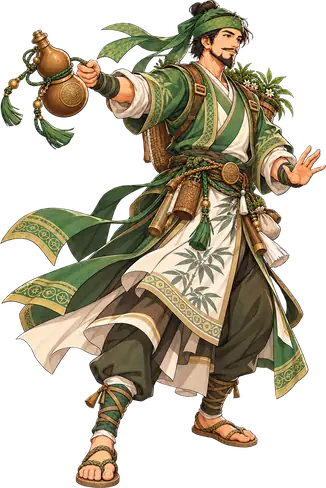
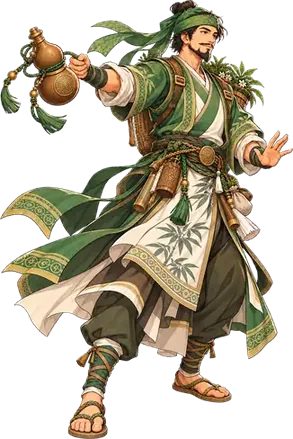
feat: thêm tranh đánh thường và phong thái cho Lưu Cơ, Trịnh Tú, Nguyễn Siêu, Trần Cương
- Lưu Cơ, Trịnh Tú: thêm pose-attack và style.webp; nén lại tư thế cũ ×0.9 (texScale 0.3) để giữ ngân sách 350 KB.
- Nguyễn Siêu: thêm tranh ra chiêu (giơ khiên, giáo chúc xuống).
- Trần Cương: thêm style.webp cho hồ sơ.

Claude-Session: https://claude.ai/code/session_013ZWRLjVBHAqXYTQSkSZwJr

diff --git a/src/app/game/stage/rigs.ts b/src/app/game/stage/rigs.ts
@@ -574,10 +574,12 @@ const LUU_CO: WarriorRig = {
   blade: [{ x: 276, y: 558 }, { x: 140, y: 335 }],
   fxColor: 0xf0cf8a,
   poses: {
-    cast: { name: "pose-cast", texScale: 1 / 3, origin: { x: 10, y: 30 }, anchor: { x: 620, y: 1513 }, scale: 1, burst: { x: 150, y: 170 } },
-    ultimate: { name: "pose-ultimate", texScale: 1 / 3, origin: { x: 8, y: 13 }, anchor: { x: 565, y: 1510 }, scale: 1, burst: { x: 947, y: 80 } },
+    // Đánh thường: tranh Shan gửi 03/11, quét quạt lông ngang người (cỡ so theo đầu).
+    attack: { name: "pose-attack", texScale: 0.3, origin: { x: 15, y: 87 }, anchor: { x: 565, y: 1380 }, scale: 1.05, burst: { x: 880, y: 500 } },
+    cast: { name: "pose-cast", texScale: 0.3, origin: { x: 10, y: 30 }, anchor: { x: 620, y: 1513 }, scale: 1, burst: { x: 150, y: 170 } },
+    ultimate: { name: "pose-ultimate", texScale: 0.3, origin: { x: 8, y: 13 }, anchor: { x: 565, y: 1510 }, scale: 1, burst: { x: 947, y: 80 } },
   },
-  down: { name: "pose-down", texScale: 1 / 3, origin: { x: 40, y: 37 }, anchor: { x: 850, y: 1007 }, scale: 1 },
+  down: { name: "pose-down", texScale: 0.3, origin: { x: 40, y: 37 }, anchor: { x: 850, y: 1007 }, scale: 1 },
 };
 
 /** Trịnh Tú, y sư hệ Mộc. Khớp trong ảnh nguồn 1024×1536, hồ lô có điểm cầm riêng. */
@@ -613,10 +615,12 @@ const TRINH_TU: WarriorRig = {
   blade: [{ x: 167, y: 414 }, { x: 157, y: 285 }],
   fxColor: 0x9bd777,
   poses: {
-    cast: { name: "pose-cast", texScale: 1 / 3, origin: { x: 43, y: 45 }, anchor: { x: 690, y: 1508 }, scale: 1, burst: { x: 170, y: 165 } },
-    ultimate: { name: "pose-ultimate", texScale: 1 / 3, origin: { x: 12, y: 57 }, anchor: { x: 680, y: 1508 }, scale: 1, burst: { x: 220, y: 225 } },
+    // Đánh thường: tranh Shan gửi 03/11, tấn rộng ôm bầu thuốc, tay trái đẩy ra (cỡ so theo đầu).
+    attack: { name: "pose-attack", texScale: 0.3, origin: { x: 81, y: 29 }, anchor: { x: 669, y: 1230 }, scale: 1.15, burst: { x: 1026, y: 382 } },
+    cast: { name: "pose-cast", texScale: 0.3, origin: { x: 43, y: 45 }, anchor: { x: 690, y: 1508 }, scale: 1, burst: { x: 170, y: 165 } },
+    ultimate: { name: "pose-ultimate", texScale: 0.3, origin: { x: 12, y: 57 }, anchor: { x: 680, y: 1508 }, scale: 1, burst: { x: 220, y: 225 } },
   },
-  down: { name: "pose-down", texScale: 1 / 3, origin: { x: 23, y: 36 }, anchor: { x: 920, y: 1000 }, scale: 1 },
+  down: { name: "pose-down", texScale: 0.3, origin: { x: 23, y: 36 }, anchor: { x: 920, y: 1000 }, scale: 1 },
 };
 
 /**
@@ -1191,6 +1195,9 @@ const NGUYEN_SIEU: WarriorRig = {
   fxColor: 0xd9502a,
   // Đâm giáo sau khiên (đánh thường), thế thủ giơ khiên trấn lũy (tuyệt chiêu); ra chiêu dùng nhịp đẩy giáo.
   poses: {
+    // Ra chiêu: tranh Shan gửi 03/11, giơ khiên mây chắn trước, giáo chúc xuống (cỡ so theo đầu).
+    cast: { name: "pose-cast", texScale: 0.3, origin: { x: 14, y: 1 },
+      anchor: { x: 625, y: 1255 }, scale: 1, burst: { x: 1060, y: 250 } },
     attack: { name: "pose-attack", texScale: 0.3, origin: { x: 17, y: 14 },
       anchor: { x: 680, y: 955 }, scale: 1.1, burst: { x: 1495, y: 110 } },
     ultimate: { name: "pose-ultimate", texScale: 0.3, origin: { x: 99, y: 2 },

diff --git a/tests/game/rigs.test.ts b/tests/game/rigs.test.ts
@@ -272,7 +272,7 @@ test("Lữ Đường có bốn tranh, cột nước hệ Thủy, cầu nước n
   assert.ok(bytes <= 350_000, `${bytes} bytes vượt ngân sách`);
 });
 
-test("Nguyễn Siêu có tranh đánh thường, tuyệt chiêu, bị hạ gục; tường lửa hệ Hỏa, khiên nâng được", () => {
+test("Nguyễn Siêu có tranh đánh thường, ra chiêu, tuyệt chiêu, bị hạ gục; tường lửa hệ Hỏa, khiên nâng được", () => {
   const rig = rigOf("nguyenSieu");
   assert.ok(rig?.skeleton === "warrior");
   assert.equal(rig.weapon, "spear");
@@ -280,7 +280,7 @@ test("Nguyễn Siêu có tranh đánh thường, tuyệt chiêu, bị hạ gục
   assert.equal(rig.fxColor, 0xd9502a);
   assert.ok((rig.shieldRaise ?? 0) < 0);
   assert.equal(rig.poses?.attack?.name, "pose-attack");
-  assert.equal(rig.poses?.cast, undefined);
+  assert.equal(rig.poses?.cast?.name, "pose-cast");
   assert.equal(rig.poses?.ultimate?.name, "pose-ultimate");
   assert.equal(rig.down?.name, "pose-down");
   const contains = (p: { x: number; y: number }, box: { x: number; y: number; w: number; h: number }) =>
